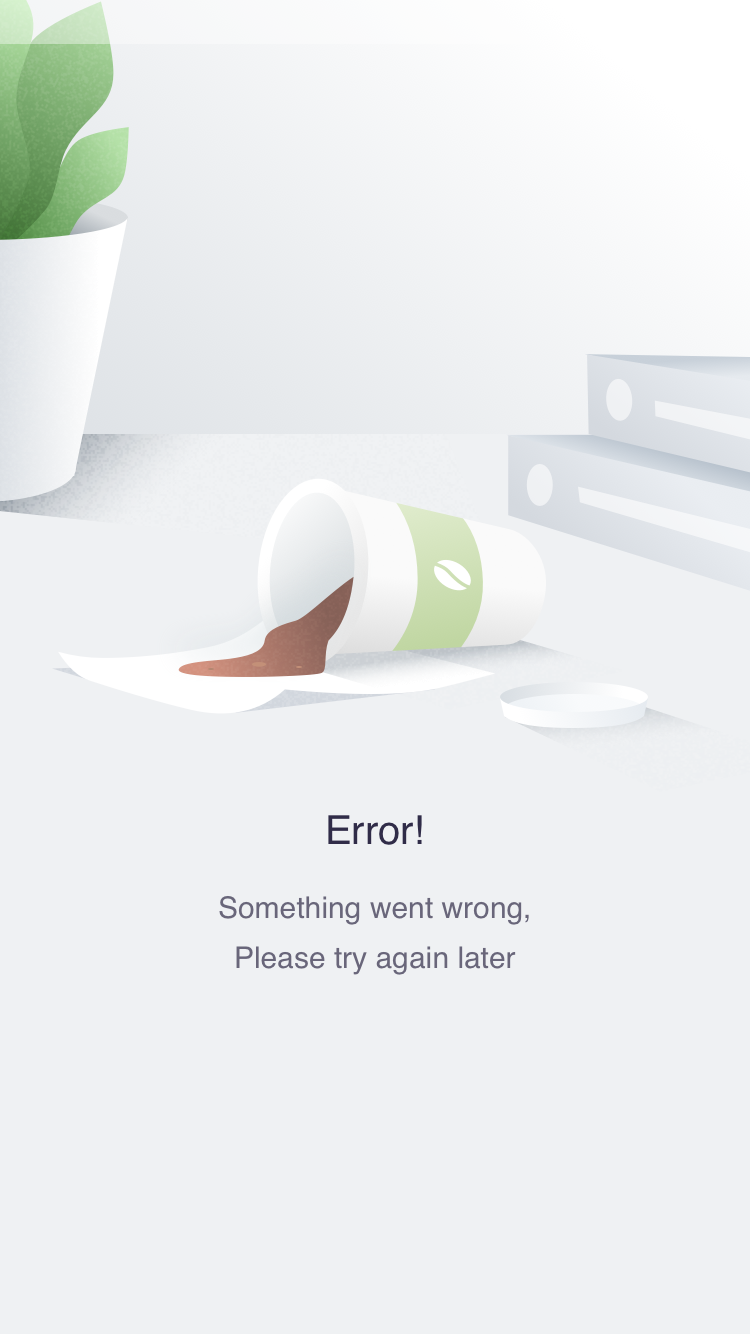
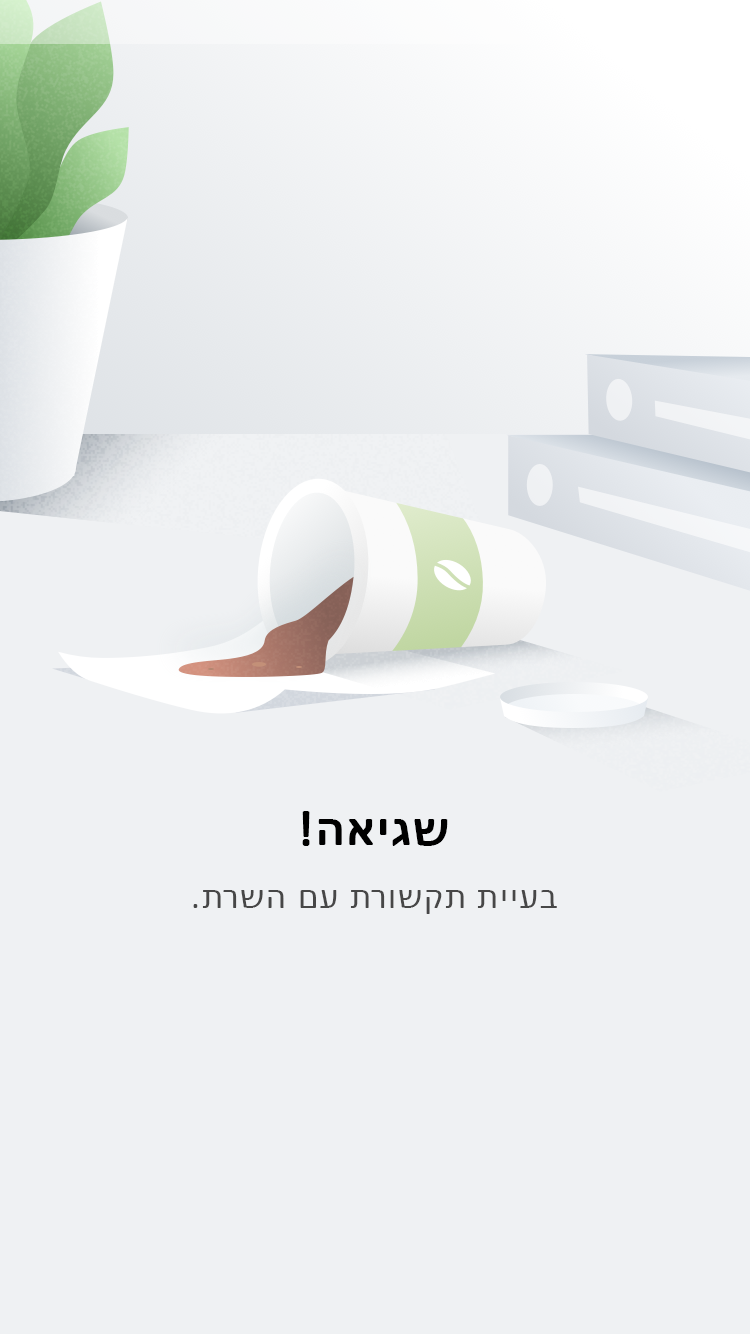
Error pages redesign

Changed region(s): [[0.276, 0.6147, 0.7053, 0.7376]]

diff --git a/lib/pages/image_page/generic_image_page.dart b/lib/pages/image_page/generic_image_page.dart
@@ -1,9 +1,13 @@
 // ================= Generic Image Page =================
 import 'package:flutter/material.dart';
+import 'package:get/get.dart';
+import 'package:get/get_core/src/get_main.dart';
+import 'package:google_fonts/google_fonts.dart';
 
 class GenericImagePage extends StatelessWidget {
-  GenericImagePage({required this.image, Key? key}) : super(key: key);
+  GenericImagePage({required this.image, this.isResponsive = false, Key? key}) : super(key: key);
   String image;
+  bool isResponsive;
 
   @override
   Widget build(BuildContext context) {
@@ -30,6 +34,21 @@ class GenericImagePage extends StatelessWidget {
               ),
             ),
           ),
+          Positioned(
+              bottom: Get.height * 0.1,
+              left: Get.width / 3,
+              child: Visibility(
+                  visible: isResponsive,
+                  child: TextButton(
+                    child: Text(
+                      'strSendReport'.tr,
+                      style: GoogleFonts.openSans(
+                          fontSize: 18,
+                          fontWeight: FontWeight.bold,
+                          color: Get.theme.primaryColor),
+                    ),
+                    onPressed: () => {},
+                  )))
         ],
       ),
     );

diff --git a/lib/global/constants.dart b/lib/global/constants.dart
@@ -54,7 +54,7 @@ class GlobalConstants {
   static String appBackgroundImage({bool isDarkMode = false}) => "images/background_${isDarkMode ? "dark" : "light"}.png";
 
   //Links
-  static const String connectionLostLink = "https://raw.githubusercontent.com/abuanwar072/20-Error-States-Flutter/master/assets/images/1_No%20Connection.png";
+  static const String connectionLostLink = "https://raw.githubusercontent.com/abuanwar072/20-Error-States-Flutter/master/assets/images/10_Connection%20Lost.png";
   static const String errorPageLink = "https://github.com/abuanwar072/20-Error-States-Flutter";
   static const String locationPermissionPageLink = "https://github.com/abuanwar072/20-Error-States-Flutter";
   static const String appBackgroundLink = "https://pixabay.com/vectors/the-background-wallpaper-sea-blue-292720";

diff --git a/lib/localization/resources/resources_he.dart b/lib/localization/resources/resources_he.dart
@@ -90,6 +90,9 @@ final Map<String, String> resourcesHe = {
   'strWalkthroughSettingsPageTitle': 'הגדרות האפליקציה',
   'strWalkthroughSettingsPageDescription': 'במסך זה ניתן לשנות את הגדרות האפליקציה- לשנות את צבעי האפליקציה, להזמין חברים להשתמש באפליקציה וכן לדרג את האפליקציה. בכל רגע נתון ניתן לחזור ולצפות במדריך זה דרך מסך זה בלחיצה על הכפתור ״צפה בהדרכה״.',
 
+  // Errors
+  'strSendReport': 'דווח על בעיה',
+
   // About The App
   'strLegalese': "כל החבילות והאייקונים בשימוש שייכים לבעליהם",
   'strLostConnectionImage': "תמונת בעיה ברשת",

diff --git a/lib/localization/resources/resources_en.dart b/lib/localization/resources/resources_en.dart
@@ -88,6 +88,10 @@ final Map<String, String> resourcesEn = {
   'strWalkthroughSettingsPageTitle': 'App Settings',
   'strWalkthroughSettingsPageDescription': 'Here you can change the app settings- change the theme, invite a friend to use the app, and rate the app. You can always return and watch this walkthrough again by clicking on "Watch walkthrough" in this page.',
 
+  // Errors
+  'strSendReport': 'Report a problem',
+
+
   // About The App
   'strLegalese': "All packages and icons used are properties of their respective owners",
   'strLostConnectionImage': "Lost Connection Image",

diff --git a/lib/pages/image_page/error_page.dart b/lib/pages/image_page/error_page.dart
@@ -8,6 +8,6 @@ class ErrorPage extends StatelessWidget {
 
   @override
   Widget build(BuildContext context) {
-    return GenericImagePage(image: GlobalConstants.errorPageImage);
+    return GenericImagePage(image: GlobalConstants.errorPageImage, isResponsive: true,);
   }
 }
